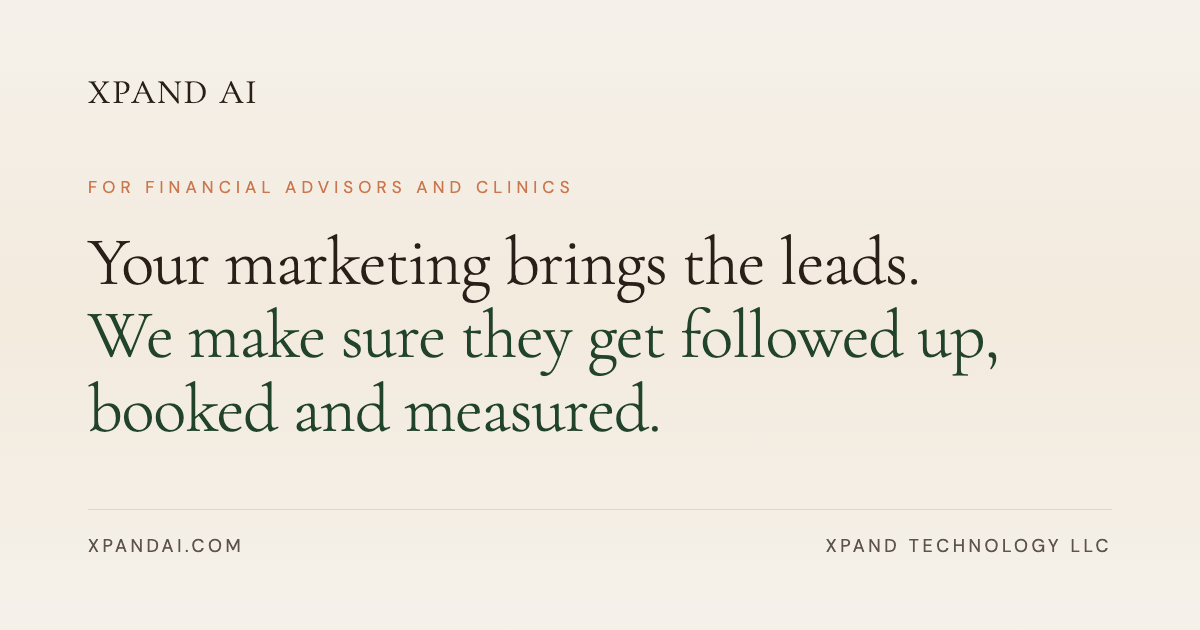
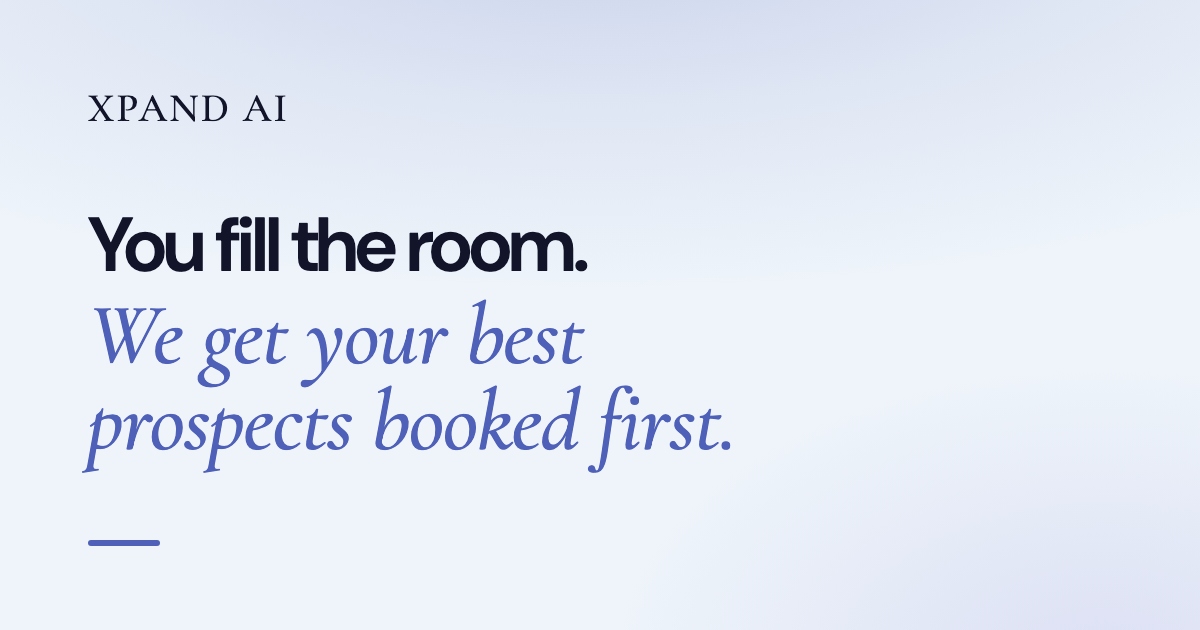
feat: home page follow-ups, pilot intro on /book and blue social image (#9)
- Hero: new line under the button, tighter phone spacing so the video top
  shows on a 400x878 screen, Tella title overlay off (title=0).
- Header button reads "Start a pilot" below tablet width.
- Problem and security sections are now one card each, with rows.
- Sample report ranks show "A".
- /book shows a pilot intro when track=home; other tracks are unchanged.
- Social preview image is blue with the new headline; alt text updated.

diff --git a/app/book/page.tsx b/app/book/page.tsx
@@ -1,5 +1,7 @@
 import type { Metadata } from "next"
 
+import { Check } from "lucide-react"
+
 import { BookingEmbed } from "@/components/booking-embed"
 import { Footer } from "@/components/footer"
 import { Header } from "@/components/header"
@@ -17,7 +19,33 @@ export const metadata: Metadata = {
   twitter: { card: "summary_large_image", title: TITLE, description: DESCRIPTION, images: [SOCIAL_IMAGE] },
 }
 
-export default function BookPage() {
+type Intro = { heading: string; sub: string; points?: string[] }
+
+/** Default intro, used by every track except the home page's pilot offer. */
+const DEFAULT_INTRO: Intro = {
+  heading: "Pick a time. 30 minutes.",
+  sub: "We'll look at how your leads get followed up today and where they're slipping.",
+}
+
+/** Intro for visitors who came from the home page pilot button (track=home). */
+const PILOT_INTRO: Intro = {
+  heading: "Set up your pilot",
+  sub: "A 30-minute call. Bring your next webinar date.",
+  points: [
+    "We confirm your scoring rules and calendars.",
+    "Your form is live within a day.",
+    "You pay only when you say go.",
+  ],
+}
+
+type BookPageProps = {
+  searchParams: Promise<{ [key: string]: string | string[] | undefined }>
+}
+
+export default async function BookPage({ searchParams }: BookPageProps) {
+  const { track } = await searchParams
+  const intro = track === "home" ? PILOT_INTRO : DEFAULT_INTRO
+
   return (
     <main className="min-h-screen">
       <Header />
@@ -26,11 +54,19 @@ export default function BookPage() {
         <div className="max-w-5xl mx-auto">
           <div className="max-w-2xl mb-12">
             <h1 className="font-serif text-4xl md:text-5xl lg:text-6xl font-light leading-[1.1] text-foreground mb-6 text-balance">
-              Pick a time. 30 minutes.
+              {intro.heading}
             </h1>
-            <p className="text-lg text-muted-foreground leading-relaxed text-pretty">
-              We&apos;ll look at how your leads get followed up today and where they&apos;re slipping.
-            </p>
+            <p className="text-lg text-muted-foreground leading-relaxed text-pretty">{intro.sub}</p>
+            {intro.points && (
+              <ul className="mt-6 space-y-3">
+                {intro.points.map((point) => (
+                  <li key={point} className="flex items-start gap-3 text-foreground leading-relaxed">
+                    <Check aria-hidden="true" className="mt-1 h-4 w-4 shrink-0 text-primary" />
+                    <span>{point}</span>
+                  </li>
+                ))}
+              </ul>
+            )}
           </div>
 
           <BookingEmbed />

diff --git a/components/offer-hero.tsx b/components/offer-hero.tsx
@@ -6,7 +6,7 @@ import { HERO_VIDEO_EMBED_HTML, OFFER_CTA_LABEL, offerHero } from "@/lib/offer-d
 /** Label, headline, sub, the one button and the hero video. Side by side from lg so it all fits one screen. */
 export function OfferHero() {
   return (
-    <section className="relative isolate px-4 sm:px-6 lg:px-12 pt-28 pb-16 md:pt-36 lg:pt-32 lg:pb-24 lg:min-h-[100svh] lg:flex lg:items-center">
+    <section className="relative isolate px-4 sm:px-6 lg:px-12 pt-24 pb-16 md:pt-36 lg:pt-32 lg:pb-24 lg:min-h-[100svh] lg:flex lg:items-center">
       {/* Soft top glow, as in the video: accent blue from above, lavender from the right. */}
       <div
         aria-hidden="true"
@@ -19,9 +19,9 @@ export function OfferHero() {
         }}
       />
 
-      <div className="mx-auto w-full max-w-7xl grid gap-12 lg:grid-cols-[minmax(0,1fr)_minmax(0,1.1fr)] lg:gap-14 lg:items-center">
+      <div className="mx-auto w-full max-w-7xl grid gap-8 md:gap-12 lg:grid-cols-[minmax(0,1fr)_minmax(0,1.1fr)] lg:gap-14 lg:items-center">
         <div className="text-center lg:text-left">
-          <p className="mb-6 inline-block rounded-full border border-border bg-card/70 px-4 py-1.5 text-sm text-primary backdrop-blur-sm">
+          <p className="mb-4 md:mb-6 inline-block rounded-full border border-border bg-card/70 px-4 py-1.5 text-sm text-primary backdrop-blur-sm">
             {offerHero.label}
           </p>
 
@@ -31,13 +31,13 @@ export function OfferHero() {
             className="text-4xl sm:text-5xl xl:text-6xl leading-[1.08] text-foreground [&_em]:block [&_em]:mt-1"
           />
 
-          <p className="mt-6 text-lg md:text-xl leading-relaxed text-muted-foreground text-pretty max-w-xl mx-auto lg:mx-0">
+          <p className="mt-4 md:mt-6 text-lg md:text-xl leading-relaxed text-muted-foreground text-pretty max-w-xl mx-auto lg:mx-0">
             {offerHero.sub}
           </p>
 
-          <div className="mt-8 flex flex-col items-center lg:items-start gap-3">
+          <div className="mt-6 md:mt-8 flex flex-col items-center lg:items-start gap-3">
             <OfferButton label={OFFER_CTA_LABEL} location="hero" />
-            <p className="text-sm text-muted-foreground">{offerHero.note}</p>
+            <p className="text-sm text-muted-foreground text-balance max-w-xs sm:max-w-none">{offerHero.note}</p>
           </div>
         </div>
 

diff --git a/lib/offer-data.ts b/lib/offer-data.ts
@@ -8,9 +8,12 @@
 /** The one button label on the home page (header, hero and close). */
 export const OFFER_CTA_LABEL = "Start a pilot on your next webinar"
 
-/** Hero video, exactly as Tella provides the embed. Rendered as HTML so it stays byte for byte. */
+/** The header button label below tablet width, where the full label does not fit beside the logo. */
+export const OFFER_CTA_SHORT_LABEL = "Start a pilot"
+
+/** Hero video, as Tella provides the embed, with the title overlay off (title=0). Rendered as HTML, unchanged. */
 export const HERO_VIDEO_EMBED_HTML =
-  '<div style="position: relative; padding-bottom: 56.2500%; height: 0;"><iframe style="position: absolute; top: 0; left: 0; width: 100%; height: 100%; border: 0;" src="https://www.tella.tv/video/vid_cmwleeedf01mb07js4chbg9b3/embed?b=1&title=1&a=1&loop=0&t=0&muted=0&wt=0&o=1" allow="autoplay; fullscreen" allowtransparency></iframe></div>'
+  '<div style="position: relative; padding-bottom: 56.2500%; height: 0;"><iframe style="position: absolute; top: 0; left: 0; width: 100%; height: 100%; border: 0;" src="https://www.tella.tv/video/vid_cmwleeedf01mb07js4chbg9b3/embed?b=1&title=0&a=1&loop=0&t=0&muted=0&wt=0&o=1" allow="autoplay; fullscreen" allowtransparency></iframe></div>'
 
 /**
  * Security video ("Where does your client data live with AI?"), same embed format as the hero.
@@ -23,7 +26,7 @@ export const offerHero = {
   label: "For financial advisory firms that run webinars",
   headline: "You fill the room. *We get your best prospects booked first.*",
   sub: "Every attendee gets ranked, your top leads book with the right advisor, and everyone else hears back. Set up in a day on the tools you already use.",
-  note: "No long contract.",
+  note: "Starts with a 30-minute setup call. $1,500 for one webinar. No long contract.",
 }
 
 export const offerProblem = {
@@ -59,9 +62,9 @@ export const offerReport = {
   ],
   /** Made-up people. Example data only. */
   leads: [
-    { name: "Jordan P.", rank: 2 },
-    { name: "Casey R.", rank: 5 },
-    { name: "Morgan T.", rank: 8 },
+    { name: "Jordan P.", rank: "A" },
+    { name: "Casey R.", rank: "A" },
+    { name: "Morgan T.", rank: "A" },
   ],
   status: "Not booked",
   followUp: "Follow-up sent",

diff --git a/components/offer-problem.tsx b/components/offer-problem.tsx
@@ -4,26 +4,25 @@ import { EmphasisHeading } from "@/components/emphasis-heading"
 import { revealClass, revealDelay, useReveal } from "@/components/reveal"
 import { offerProblem } from "@/lib/offer-data"
 
-/** Four short problem statements in rounded cards on the panel color. */
+/** Four short problem statements as rows in one rounded card on the panel color. */
 export function OfferProblem() {
   const { ref, isVisible } = useReveal<HTMLElement>()
 
   return (
     <section ref={ref} className="py-20 lg:py-28 px-4 sm:px-6 lg:px-12 bg-sand">
-      <div className="max-w-5xl mx-auto">
+      <div className="max-w-3xl mx-auto">
         <EmphasisHeading
           text={offerProblem.headline}
           className={`text-3xl md:text-5xl text-center text-foreground mb-12 ${revealClass(isVisible, "up-sm")}`}
         />
 
-        <ul className="grid gap-4 md:grid-cols-2 md:gap-5">
-          {offerProblem.items.map((item, index) => (
-            <li
-              key={item}
-              className={`rounded-2xl border border-border bg-card p-6 md:p-8 shadow-sm ${revealClass(isVisible)}`}
-              style={revealDelay(150 + index * 100)}
-            >
-              <span aria-hidden="true" className="mb-5 block h-1 w-10 rounded-full bg-primary" />
+        <ul
+          className={`divide-y divide-border rounded-2xl border border-border bg-card px-6 md:px-8 shadow-sm ${revealClass(isVisible)}`}
+          style={revealDelay(150)}
+        >
+          {offerProblem.items.map((item) => (
+            <li key={item} className="flex items-start gap-4 py-5 md:py-6">
+              <span aria-hidden="true" className="mt-3.5 block h-1 w-5 shrink-0 rounded-full bg-primary" />
               <p className="text-lg font-light leading-relaxed tracking-[-0.01em] text-foreground">{item}</p>
             </li>
           ))}

diff --git a/components/offer-security.tsx b/components/offer-security.tsx
@@ -7,7 +7,7 @@ import { revealClass, revealDelay, useReveal } from "@/components/reveal"
 import { VideoEmbed } from "@/components/video-embed"
 import { SECURITY_VIDEO_EMBED_HTML, offerSecurity } from "@/lib/offer-data"
 
-/** Security and compliance on the navy band, then the security video. Claims come only from offer-data. */
+/** Security and compliance as one checklist card on the navy band, then the security video. Claims come only from offer-data. */
 export function OfferSecurity() {
   const { ref, isVisible } = useReveal<HTMLElement>()
 
@@ -20,13 +20,12 @@ export function OfferSecurity() {
           className={`text-3xl md:text-5xl text-center mb-12 ${revealClass(isVisible, "up-sm")}`}
         />
 
-        <ul className="grid gap-4 md:grid-cols-2">
-          {offerSecurity.points.map((point, index) => (
-            <li
-              key={point}
-              className={`flex items-start gap-3 rounded-2xl border border-primary-foreground/15 bg-primary-foreground/5 p-5 ${revealClass(isVisible)}`}
-              style={revealDelay(150 + index * 70)}
-            >
+        <ul
+          className={`mx-auto max-w-3xl divide-y divide-primary-foreground/15 rounded-2xl border border-primary-foreground/15 bg-primary-foreground/5 px-6 md:px-8 ${revealClass(isVisible)}`}
+          style={revealDelay(150)}
+        >
+          {offerSecurity.points.map((point) => (
+            <li key={point} className="flex items-start gap-3 py-4 md:py-5">
               <ShieldCheck aria-hidden="true" className="mt-0.5 h-5 w-5 shrink-0 text-glow" />
               <span className="text-base font-light leading-relaxed tracking-[-0.01em]">{point}</span>
             </li>

diff --git a/components/offer-button.tsx b/components/offer-button.tsx
@@ -4,6 +4,8 @@ import { BookCallLink } from "@/components/book-call-link"
 
 type OfferButtonProps = {
   label: string
+  /** Optional shorter label shown below tablet width (md); the full label shows from md up. */
+  shortLabel?: string
   /** Where on the page this button lives, sent with the book_call_click event. */
   location: string
   /** "sm" is the same button sized for the header. */
@@ -20,13 +22,20 @@ const SIZES = {
  * BookCallLink, so the track slug, stored UTMs and click tracking carry over.
  * The label is passed in, so the shared BOOKING_LABEL on other pages is untouched.
  */
-export function OfferButton({ label, location, size = "default" }: OfferButtonProps) {
+export function OfferButton({ label, shortLabel, location, size = "default" }: OfferButtonProps) {
   return (
     <BookCallLink
       location={location}
       className={`group inline-flex items-center justify-center rounded-full bg-primary font-medium text-primary-foreground shadow-primary/25 transition-transform duration-300 hover:scale-[1.03] focus-visible:outline-none focus-visible:ring-2 focus-visible:ring-ring focus-visible:ring-offset-2 focus-visible:ring-offset-background motion-reduce:transition-none motion-reduce:hover:scale-100 ${SIZES[size]}`}
     >
-      {label}
+      {shortLabel ? (
+        <>
+          <span className="md:hidden">{shortLabel}</span>
+          <span className="hidden md:inline">{label}</span>
+        </>
+      ) : (
+        label
+      )}
       <ArrowRight
         aria-hidden="true"
         className={`shrink-0 transition-transform duration-300 group-hover:translate-x-0.5 ${size === "sm" ? "h-3.5 w-3.5" : "h-4 w-4"}`}

diff --git a/app/page.tsx b/app/page.tsx
@@ -8,7 +8,7 @@ import { OfferHowItWorks } from "@/components/offer-how-it-works"
 import { OfferProblem } from "@/components/offer-problem"
 import { OfferReport } from "@/components/offer-report"
 import { OfferSecurity } from "@/components/offer-security"
-import { OFFER_CTA_LABEL } from "@/lib/offer-data"
+import { OFFER_CTA_LABEL, OFFER_CTA_SHORT_LABEL } from "@/lib/offer-data"
 
 export const metadata: Metadata = {
   alternates: { canonical: "/" },
@@ -18,7 +18,7 @@ export const metadata: Metadata = {
 export default function Home() {
   return (
     <main className="min-h-screen">
-      <Header cta={{ label: OFFER_CTA_LABEL, location: "header" }} />
+      <Header cta={{ label: OFFER_CTA_LABEL, shortLabel: OFFER_CTA_SHORT_LABEL, location: "header" }} />
       <OfferHero />
       <OfferProblem />
       <OfferHowItWorks />

diff --git a/components/header.tsx b/components/header.tsx
@@ -16,7 +16,7 @@ const NAV_LINKS = [
 
 type HeaderProps = {
   /** When set, the header shows the logo and this one button, with no nav. Used on the offer page. */
-  cta?: { label: string; location: string }
+  cta?: { label: string; shortLabel?: string; location: string }
 }
 
 export function Header({ cta }: HeaderProps) {
@@ -30,7 +30,7 @@ export function Header({ cta }: HeaderProps) {
             <Link href="/" className="shrink-0 font-serif text-xl md:text-2xl tracking-wide text-foreground">
               XPAND AI
             </Link>
-            <OfferButton label={cta.label} location={cta.location} size="sm" />
+            <OfferButton label={cta.label} shortLabel={cta.shortLabel} location={cta.location} size="sm" />
           </div>
         </nav>
       </header>

diff --git a/components/offer-report.tsx b/components/offer-report.tsx
@@ -68,7 +68,7 @@ export function OfferReport() {
                 {offerReport.leads.map((lead) => (
                   <tr key={lead.name} className="border-b border-border last:border-b-0">
                     <td className="py-3 pr-2 font-medium text-foreground">{lead.name}</td>
-                    <td className="py-3 pr-2 text-foreground">#{lead.rank}</td>
+                    <td className="py-3 pr-2 text-foreground">{lead.rank}</td>
                     <td className="py-3 pr-2 text-muted-foreground">{offerReport.status}</td>
                     <td className="py-3 text-primary">{offerReport.followUp}</td>
                   </tr>

diff --git a/lib/site.ts b/lib/site.ts
@@ -28,5 +28,5 @@ export const SOCIAL_IMAGE = {
   url: "/opengraph-image.png",
   width: 1200,
   height: 630,
-  alt: "Xpand AI: Your marketing brings the leads. We make sure they get followed up, booked and measured.",
+  alt: "Xpand AI: You fill the room. We get your best prospects booked first.",
 }
